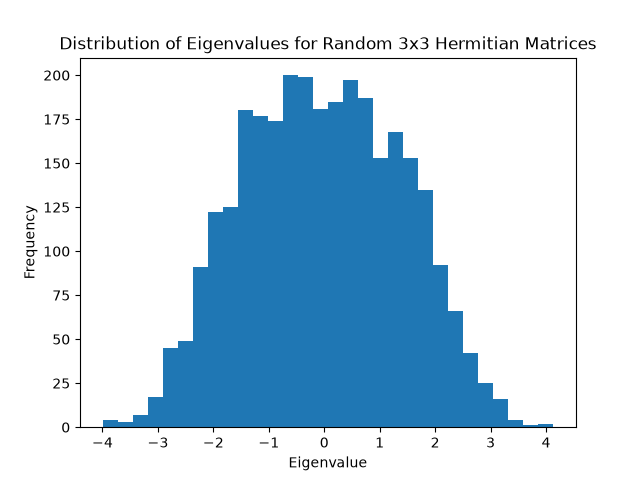
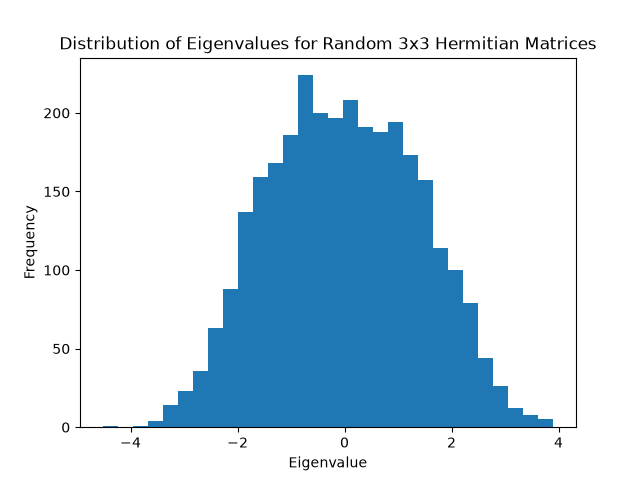
rename experiment 1 file

diff --git a/README.md b/README.md
@@ -1,19 +1,20 @@
 # Exploring Eigenvalues of Random Hermitian Matrices
-In this project I will be exploring the eigenvalues of randomly generated Hermitian Matrices using Python.
+In this project I will be exploring between the eigenvalues of randomly generated Hermitian Matrices using Python.
 ## Objectives
 - Generate random Hermitian matrices 
 - Calculate their eigenvalues
 - Investigate relationships, properties and distribution of the eigenvalues
-- Produce graphs to visualise the results using Matplotlib
-- Interpret the Results
+- Produce figures to visualise the results using Matplotlib
+- Analyse and interpret the Results
 ## Experiment 1: Distribution of Eigenvalues
 ### Research question
 What is the distribution of Eigenvalues for randomly generated 3x3 Hermitian Matrices?
 ### Method
 I generated 1000 random 3x3 Hermitian Matrices using NumPy. For each matrix, I calculated its three eigenvalues using 'numpy.linalg.eigvalsh()'. This produced 3000 eigenvalues which were collected and displayed using a Histogram. 
 ### Results
-The distribution of the Eigenvalues was centred around zero, with the frequency decreasing towards the more positive and negative eigenvalues.
-The statistics summary:
+The distribution of the eigenvalues was centred around zero, with the frequency decreasing towards the more positive and negative eigenvalues.
+
+Summary:
 - Standard Deviation: 1.420
 - Mean Eigenvalue: -0.027
 - Minimum Eigenvalue: -3.998
@@ -22,4 +23,5 @@ The statistics summary:
 The mean eigenvalue -0.027 is close to zero which indicates that the eigenvalues are centred around zero. This is consistent with the random matrix entries being generated around zero. The minimum and maximum eigenvalues show the range over which the eigenvalues occurred, ranging from -3.998 to 4.134. The distribution was approximately symmetric around zero, with there being fewer eigenvalues at the positive and negative ends. Since the matrices are Hermitian, all the eiegnvalues must be real. Therefore, the Histogram provides a way of investigating how real eigenvalues are distributed across many randomly generated matrices. 
 ### Figure 1
 ![Distribution of Eigenvalues](Figure_1.png)
+
 The Histogram shows the frequency of the 3000 eigenvalues generated from the 1000 random 3x3 Hermitian matrices.
